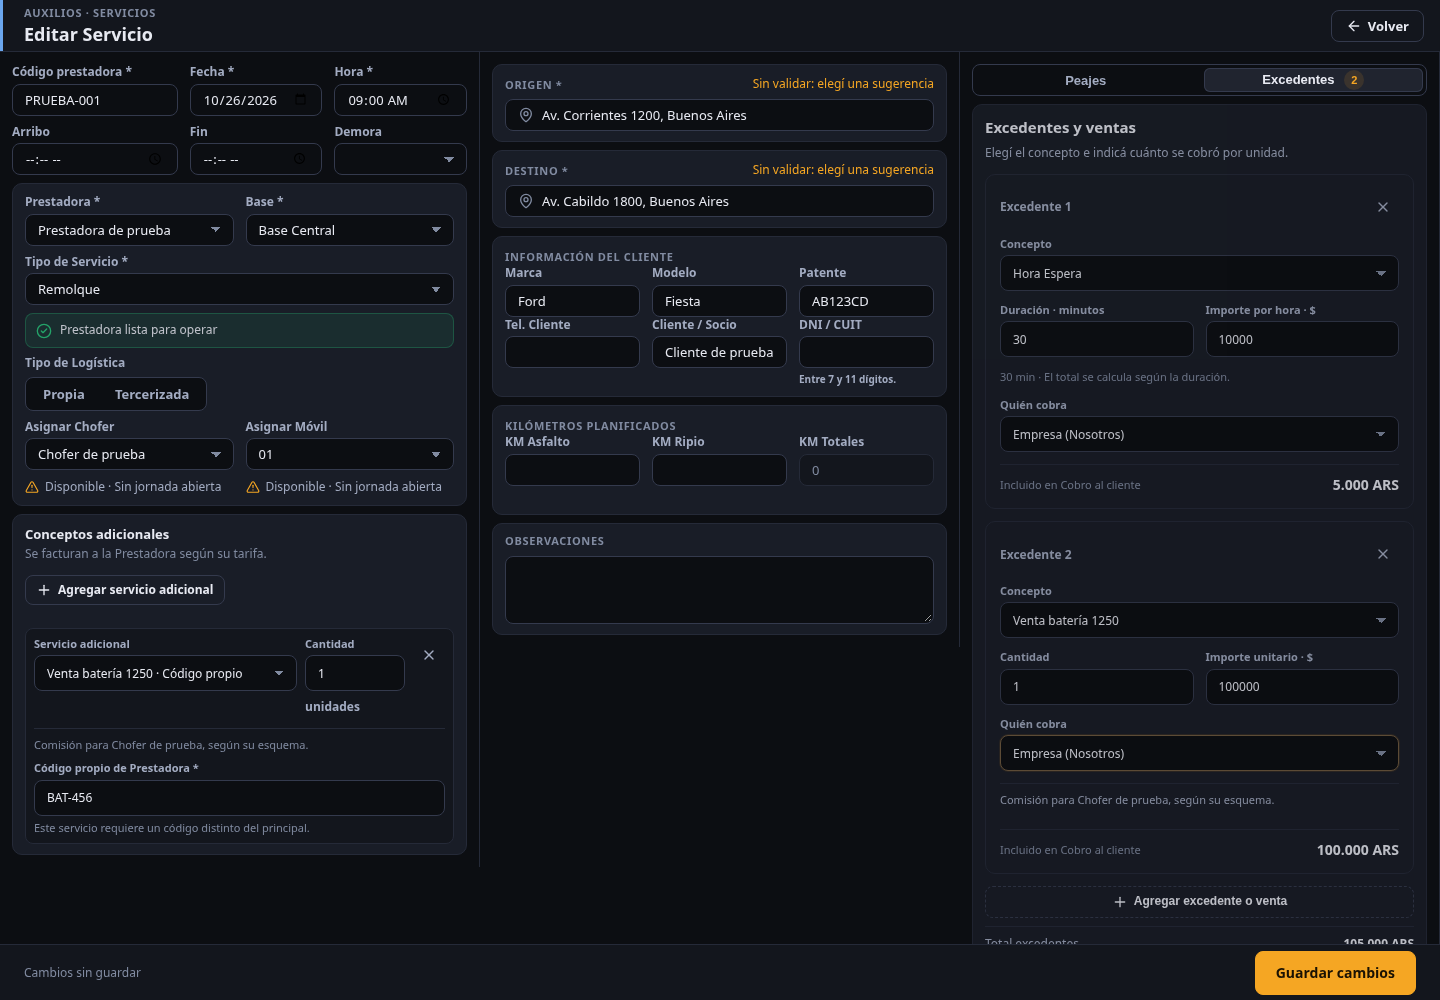
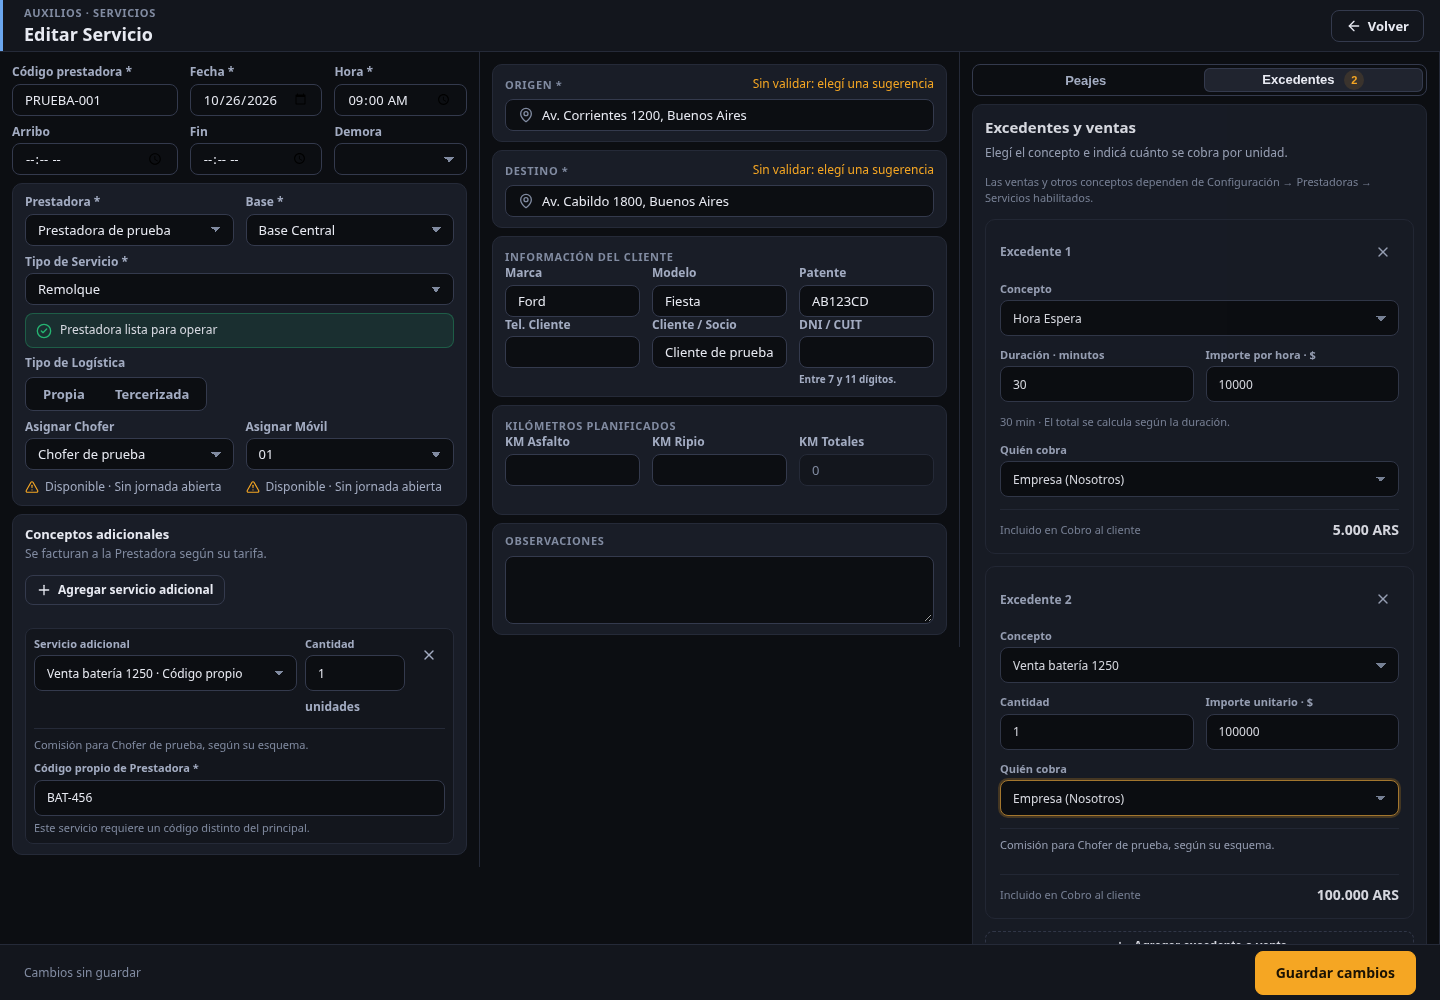
feat(config): expose own-code controls for enabled service concepts

diff --git a/company-services-configuration-v4.js b/company-services-configuration-v4.js
@@ -16,17 +16,19 @@
     if (!document.getElementById('company-services-configuration-v4-css')) {
       document.head.insertAdjacentHTML('beforeend', `<style id="company-services-configuration-v4-css">
         .cs4-note{padding:10px 12px;border:1px solid rgba(74,144,226,.28);background:rgba(74,144,226,.08);border-radius:9px;font-size:11px;line-height:1.5;color:var(--muted2);margin-bottom:12px}.cs4-note b{color:var(--text)}
-        .cs4-list{display:grid;gap:8px}.cs4-row{display:grid;grid-template-columns:28px minmax(0,1fr) minmax(145px,180px);gap:10px;align-items:center;padding:11px 12px;border:1px solid var(--border);border-radius:9px;background:var(--bg)}.cs4-row input{width:17px;height:17px;accent-color:var(--amber)}.cs4-row select{min-height:36px;border:1px solid var(--border2);border-radius:8px;background:var(--panel);color:var(--text);padding:7px;font-size:10px}.cs4-row select:disabled{opacity:.45}.cs4-row .cs4-state{display:none}@media(max-width:620px){.cs4-row{grid-template-columns:28px minmax(0,1fr)}.cs4-row select{grid-column:2}}
+        .cs4-list{display:grid;gap:8px}.cs4-row{display:grid;grid-template-columns:28px minmax(0,1fr) minmax(220px,280px);gap:10px;align-items:center;padding:11px 12px;border:1px solid var(--border);border-radius:9px;background:var(--bg)}.cs4-row input{width:17px;height:17px;accent-color:var(--amber)}.cs4-row select{min-height:36px;border:1px solid var(--border2);border-radius:8px;background:var(--panel);color:var(--text);padding:7px;font-size:10px}.cs4-row select:disabled{opacity:.45}.cs4-row .cs4-state{display:none}@media(max-width:620px){.cs4-row{grid-template-columns:28px minmax(0,1fr)}.cs4-row select{grid-column:2}}
+        .cs4-controls{display:grid;gap:10px}.cs4-control{display:grid;gap:5px;min-width:0}.cs4-control>span{font-size:11px;font-weight:600;color:var(--text)}.cs4-control small{font-size:10px;line-height:1.4;color:var(--muted2)}.cs4-control select{width:100%}.cs4-search{width:100%;margin-bottom:12px}.cs4-row[hidden]{display:none}@media(max-width:620px){.cs4-controls{grid-column:2}.cs4-row .cs4-controls select{grid-column:auto}}
         .cs4-name{font-size:12px;font-weight:700;color:var(--text)}.cs4-meta{display:flex;gap:5px;flex-wrap:wrap;margin-top:5px}.cs4-chip{display:inline-flex;align-items:center;padding:3px 7px;border:1px solid var(--border2);border-radius:999px;font-size:9px;color:var(--muted2)}.cs4-chip.km{color:var(--cyan);border-color:rgba(46,196,214,.35)}.cs4-state{font-size:9px;color:var(--muted2)}.cs4-state.on{color:var(--green)}.cs4-empty{padding:20px;text-align:center;border:1px dashed var(--border2);border-radius:9px;color:var(--muted2);font-size:11px}
       </style>`);
     }
     document.getElementById('modal-company-enabled-services-v2')?.remove();
     document.getElementById('modal-company-enabled-services-v3')?.remove();
     if (document.getElementById('modal-company-enabled-services-v4')) return;
-    document.body.insertAdjacentHTML('beforeend', `<div class="modal-backdrop" id="modal-company-enabled-services-v4"><div class="modal-box" style="width:min(760px,calc(100vw - 24px));max-width:760px"><div class="modal-head"><div><span class="modal-head-title">Servicios habilitados</span><div style="font-size:10px;color:var(--muted2);margin-top:3px">Selección por prestadora</div></div><button class="modal-close" data-cs4-close type="button">×</button></div><div class="modal-body" style="max-height:min(70vh,680px);overflow:auto"><div class="cs4-note"><b>Acá no se crean servicios.</b> El catálogo maestro se administra en <strong>Configuración → Tipos de servicio</strong>. Acá únicamente definís cuáles puede utilizar esta prestadora.</div><div style="display:flex;justify-content:flex-end;margin-bottom:10px"><button class="btn btn-ghost" id="cs4-go-types" type="button">Abrir Tipos de servicio</button></div><div id="cs4-list" class="cs4-list"><div class="cs4-empty">Cargando servicios…</div></div><div class="modal-error" id="cs4-error" style="display:none"></div></div><div class="modal-footer"><button class="btn btn-ghost" data-cs4-close type="button">Cancelar</button><button class="btn btn-primary" id="cs4-save" type="button">Guardar servicios habilitados</button></div></div></div>`);
+    document.body.insertAdjacentHTML('beforeend', `<div class="modal-backdrop" id="modal-company-enabled-services-v4"><div class="modal-box" style="width:min(760px,calc(100vw - 24px));max-width:760px"><div class="modal-head"><div><span class="modal-head-title">Servicios habilitados</span><div style="font-size:10px;color:var(--muted2);margin-top:3px">Selección por prestadora</div></div><button class="modal-close" data-cs4-close type="button">×</button></div><div class="modal-body" style="max-height:min(70vh,680px);overflow:auto"><div class="cs4-note"><b>Acá no se crean servicios.</b> El catálogo maestro se administra en <strong>Configuración → Tipos de servicio</strong>. Acá definís cuáles puede utilizar esta prestadora y cuáles requieren código propio. Las ventas habilitadas también aparecen en Excedentes.</div><div style="display:flex;justify-content:flex-end;margin-bottom:10px"><button class="btn btn-ghost" id="cs4-go-types" type="button">Abrir Tipos de servicio</button></div><label class="cs4-control cs4-search"><span>Buscar servicio o venta</span><input class="form-input" id="cs4-search" type="search" placeholder="Batería, espera, extracción…"></label><div id="cs4-list" class="cs4-list"><div class="cs4-empty">Cargando servicios…</div></div><div class="modal-error" id="cs4-error" style="display:none"></div></div><div class="modal-footer"><button class="btn btn-ghost" data-cs4-close type="button">Cancelar</button><button class="btn btn-primary" id="cs4-save" type="button">Guardar servicios habilitados</button></div></div></div>`);
     document.querySelectorAll('[data-cs4-close]').forEach(button => button.addEventListener('click', close));
     document.getElementById('cs4-go-types')?.addEventListener('click', () => { close(); if (typeof goTo === 'function') goTo('config-service-types'); });
     document.getElementById('cs4-save')?.addEventListener('click', save);
+    document.getElementById('cs4-search')?.addEventListener('input', filterRows);
   }
 
   const resolveCompanyId = explicit => explicit || S.companyId || window.__auxCompanySelected || null;
@@ -48,6 +50,8 @@
 
   const settingsMap = () => new Map((S.companyConfig?.services || []).map(row => [String(row.concept_id), row]));
 
+  function filterRows(){const q=norm(document.getElementById('cs4-search')?.value);document.querySelectorAll('#cs4-list .cs4-row').forEach(row=>{row.hidden=!!q&&!norm(row.dataset.search).includes(q);});}
+
   function render() {
     const box = document.getElementById('cs4-list');
     if (!box) return;
@@ -58,15 +62,16 @@
       const enabled = current.is_enabled === true;
       const tariffTypes = (service.tariff_types || []).map(type => type.name).filter(Boolean).join(' · ');
       const configurable=['secondary','mixed'].includes(service.category);
-      return `<div class="cs4-row"><label class="ax-switch cs4-sw"><input type="checkbox" aria-label="Habilitar ${esc(service.name)}" data-cs4-enabled="${esc(service.concept_id)}" ${enabled ? 'checked' : ''}></label><span><span class="cs4-name">${esc(service.name)}</span><span class="cs4-meta"><span class="cs4-chip">${esc(categoryLabel(service.category))}</span>${tariffTypes ? `<span class="cs4-chip">${esc(tariffTypes)}</span>` : ''}<span class="cs4-chip">${esc(unitLabel(service.pricing_unit))}</span><span class="cs4-chip ${service.distance_chargeable ? 'km' : ''}">${service.distance_chargeable ? 'Suma KM' : 'No suma KM'}</span></span><span class="cs4-state ${enabled ? 'on' : ''}">${enabled ? 'Habilitado' : 'No habilitado'}</span></span>${configurable?`<select aria-label="Importe del chofer para ${esc(service.name)}" data-cs4-amount-mode="${esc(service.concept_id)}" ${enabled?'':'disabled'}><option value="fixed" ${(current.driver_amount_mode||'fixed')==='fixed'?'selected':''}>Precio definido</option><option value="manual" ${current.driver_amount_mode==='manual'?'selected':''}>Importe variable</option></select>`:'<span></span>'}</div>`;
+      return `<div class="cs4-row" data-search="${esc(service.name)}"><label class="ax-switch cs4-sw"><input type="checkbox" aria-label="Habilitar ${esc(service.name)}" data-cs4-enabled="${esc(service.concept_id)}" ${enabled ? 'checked' : ''}></label><span><span class="cs4-name">${esc(service.name)}</span><span class="cs4-meta"><span class="cs4-chip">${esc(categoryLabel(service.category))}</span>${tariffTypes ? `<span class="cs4-chip">${esc(tariffTypes)}</span>` : ''}<span class="cs4-chip">${esc(unitLabel(service.pricing_unit))}</span><span class="cs4-chip ${service.distance_chargeable ? 'km' : ''}">${service.distance_chargeable ? 'Suma KM' : 'No suma KM'}</span></span><span class="cs4-state ${enabled ? 'on' : ''}">${enabled ? 'Habilitado' : 'No habilitado'}</span></span>${configurable?`<div class="cs4-controls"><label class="cs4-control"><span>Código de Prestadora</span><select aria-label="Código de Prestadora para ${esc(service.name)}" data-cs4-code-mode="${esc(service.concept_id)}" ${enabled?'':'disabled'}><option value="fixed" ${current.code_mode!=='manual'?'selected':''}>Usar código principal</option><option value="manual" ${current.code_mode==='manual'?'selected':''}>Pedir código propio</option></select><small>El código propio se completa al agregar este servicio adicional.</small></label><label class="cs4-control"><span>Importe que carga el chofer</span><select aria-label="Importe del chofer para ${esc(service.name)}" data-cs4-amount-mode="${esc(service.concept_id)}" ${enabled?'':'disabled'}><option value="fixed" ${(current.driver_amount_mode||'fixed')==='fixed'?'selected':''}>Precio definido</option><option value="manual" ${current.driver_amount_mode==='manual'?'selected':''}>Importe variable</option></select></label></div>`:'<span></span>'}</div>`;
     }).join('') : '<div class="cs4-empty">No existen Tipos de Servicio activos.</div>';
     box.querySelectorAll('[data-cs4-enabled]').forEach(input => input.addEventListener('change', () => {
       const state = input.closest('.cs4-row')?.querySelector('.cs4-state');
       if (!state) return;
       state.textContent = input.checked ? 'Habilitado' : 'No habilitado';
       state.classList.toggle('on', input.checked);
-      const amountMode=input.closest('.cs4-row')?.querySelector('[data-cs4-amount-mode]');if(amountMode)amountMode.disabled=!input.checked;
+      input.closest('.cs4-row')?.querySelectorAll('select').forEach(select=>{select.disabled=!input.checked;});
     }));
+    filterRows();
   }
 
   function setError(message = '') {
@@ -82,6 +87,7 @@
     const id = resolveCompanyId(companyId);
     if (!id) return notify('Seleccioná una prestadora', 'warning');
     S.companyId = id;
+    const search=document.getElementById('cs4-search');if(search)search.value='';
     const box = document.getElementById('cs4-list');
     if (box) box.innerHTML = '<div class="cs4-empty">Cargando servicios…</div>';
     setError('');
@@ -110,7 +116,7 @@
           concept_id: service.concept_id,
           is_enabled: enabled,
           external_code: current.external_code || null,
-          code_mode: current.code_mode || 'fixed',
+          code_mode: document.querySelector(`[data-cs4-code-mode="${CSS.escape(String(service.concept_id))}"]`)?.value || current.code_mode || 'fixed',
           driver_amount_mode: document.querySelector(`[data-cs4-amount-mode="${CSS.escape(String(service.concept_id))}"]`)?.value || current.driver_amount_mode || 'fixed',
           notes: current.notes || null,
         }});

diff --git a/operator-service-commercial-addons-v1.js b/operator-service-commercial-addons-v1.js
@@ -76,7 +76,7 @@ function tollMatrix(c){const mode=c.toll_coverage_mode,disabled=readOnly();if(!m
  <div class="osca-matrix-body">${c.tolls.length?c.tolls.map((row,index)=>renderTollRow(row,index,mode)).join(''):'<div class="osca-empty-row">Sin peajes cargados.</div>'}</div>
  ${disabled?'':`<div class="osca-add-actions"><button type="button" class="osca-add-row" data-ca="new-toll">${ico('plus')}Agregar peaje</button><button type="button" class="osca-add-row" data-ca="detect-tolls">${ico('route')}Detectar peajes del recorrido</button>${c.tolls.length?`<button type="button" class="osca-add-row" data-ca="duplicate-tolls">${ico('copy')}Duplicar para la vuelta</button>`:''}</div>${window.AuxiliosTollDetection?.panelHtml?.()||''}`}
  </div>`;}
-function excessMatrix(c){const disabled=readOnly();return`<div class="osca-excess-editor"><div class="osca-title"><b>Excedentes y ventas</b><small>Elegí el concepto e indicá cuánto se cobró por unidad.</small></div><div class="osca-excess-list">${c.excess_charges.length?c.excess_charges.map(renderExcessRow).join(''):'<div class="osca-excess-empty"><b>Sin excedentes</b><span>Agregá los cargos o ventas que correspondan al servicio.</span></div>'}</div>${disabled?'':`<button type="button" class="osca-add-row" data-ca="new-excess">${ico('plus')}Agregar excedente o venta</button>`}</div>`;}
+function excessMatrix(c){const disabled=readOnly();return`<div class="osca-excess-editor"><div class="osca-title"><b>Excedentes y ventas</b><small>Elegí el concepto e indicá cuánto se cobra por unidad.</small></div><small class="osca-excess-help">Las ventas y otros conceptos dependen de Configuración → Prestadoras → Servicios habilitados.</small><div class="osca-excess-list">${c.excess_charges.length?c.excess_charges.map(renderExcessRow).join(''):'<div class="osca-excess-empty"><b>Sin excedentes</b><span>Agregá los cargos o ventas que correspondan al servicio.</span></div>'}</div>${disabled?'':`<button type="button" class="osca-add-row" data-ca="new-excess">${ico('plus')}Agregar excedente o venta</button>`}</div>`;}
 
 function activationCard(){
  const w=W(),s=w?.serviceSnapshot||{},active=!!(s.driver_activated||w?.intakeActivated);if(!active)return '';
